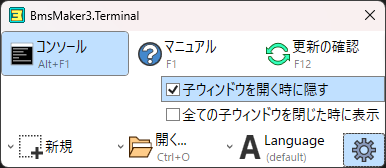
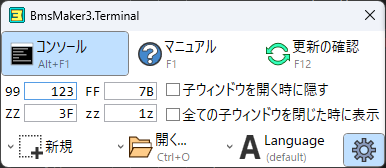
version 0.7.12

diff --git a/docs/history.html b/docs/history.html
@@ -11,6 +11,38 @@
             <ul>
                 <li>
                     <details open>
+                        <summary class="a-like">Version 0.7.12 (2025/06/22)</summary>
+                        <ul>
+                            <li>
+                                不具合修正
+                                <ul>
+                                    <li>
+                                        <a href="bms_multiDef.html">BMSモード/多重定義</a>において、定義数の上限付近(<span class="script">ZZ</span>など)が使用済みの状態で多重定義化を行った場合、その定義番号が上限を超えた値となって編集不能になる不具合を修正しました。
+                                        <ul>
+                                            <li>
+                                                この修正に合わせて、多重定義化により定義数が上限を超えた場合は警告のメッセージを表示するようにしました。
+                                            </li>
+                                        </ul>
+                                    </li>
+                                    <li>
+                                        <a href="bms_assemble.html">BMSモード/アセンブル</a>において、選択範囲の先頭がロングノート終端の状態で置換を有効にした場合、音声のタイミングがズレる不具合を修正しました。
+                                    </li>
+                                </ul>
+                            </li>
+                            <li>
+                                機能追加
+                                <ul>
+                                    <li>
+                                        <a href="terminal.html">ターミナル</a>に定義番号の基数変換器を追加しました。
+                                    </li>
+                                </ul>
+                            </li>
+                        </ul>
+                        <br>
+                    </details>
+                </li>
+                <li>
+                    <details open>
                         <summary class="a-like">Version 0.7.11 (2025/06/07)</summary>
                         <ul>
                             <li>

diff --git a/docs/terminal/converter.html b/docs/terminal/converter.html
@@ -1,0 +1,20 @@
+<h3>基数変換器</h3>
+<ul>
+    <li>
+        定義番号の基数変換器です。
+    </li>
+    <li>
+        いずれかのテキストボックスの内容を変更すると、他の内容も更新されます。
+        <li>
+            表示桁数の都合上、入力可能な値は十進表記で<span class="script">99999</span>が上限となります。
+        </li>
+    </li>
+    <li>
+        テキストボックス上で<b>マウスホイール</b>を回すと値を<span class="script">1</span>ずつ変更できます。
+        <ul>
+            <li>
+                <span class="script">Shift</span>を押している場合、変化量は<b>各基数表記における</b><span class="script">10</span>単位になります。
+            </li>
+        </ul>
+    </li>
+</ul>

diff --git a/docs/terminal.html b/docs/terminal.html
@@ -51,6 +51,7 @@
                       1, 31,128,45, terminal/console.html;
                     129, 31,128,45, terminal/manual.html;
                     257, 31,128,45, terminal/update.html;
+                      1, 76,160,51, terminal/converter.html;
                     161, 76,224,26, terminal/hide.html;
                     161,102,224,25, terminal/show.html;
                       1,127,110,40, terminal/new.html;
